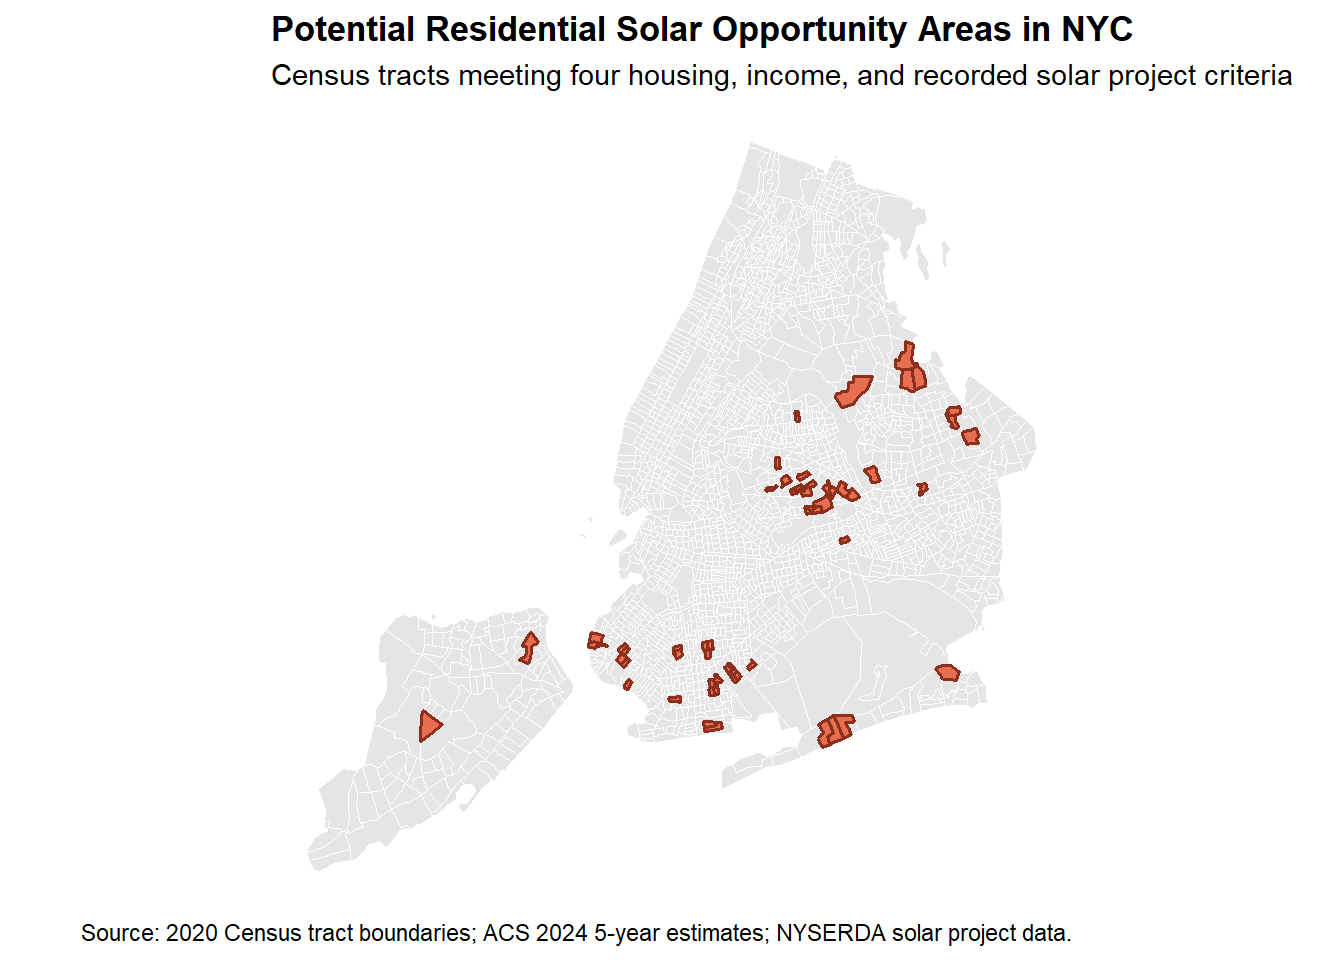
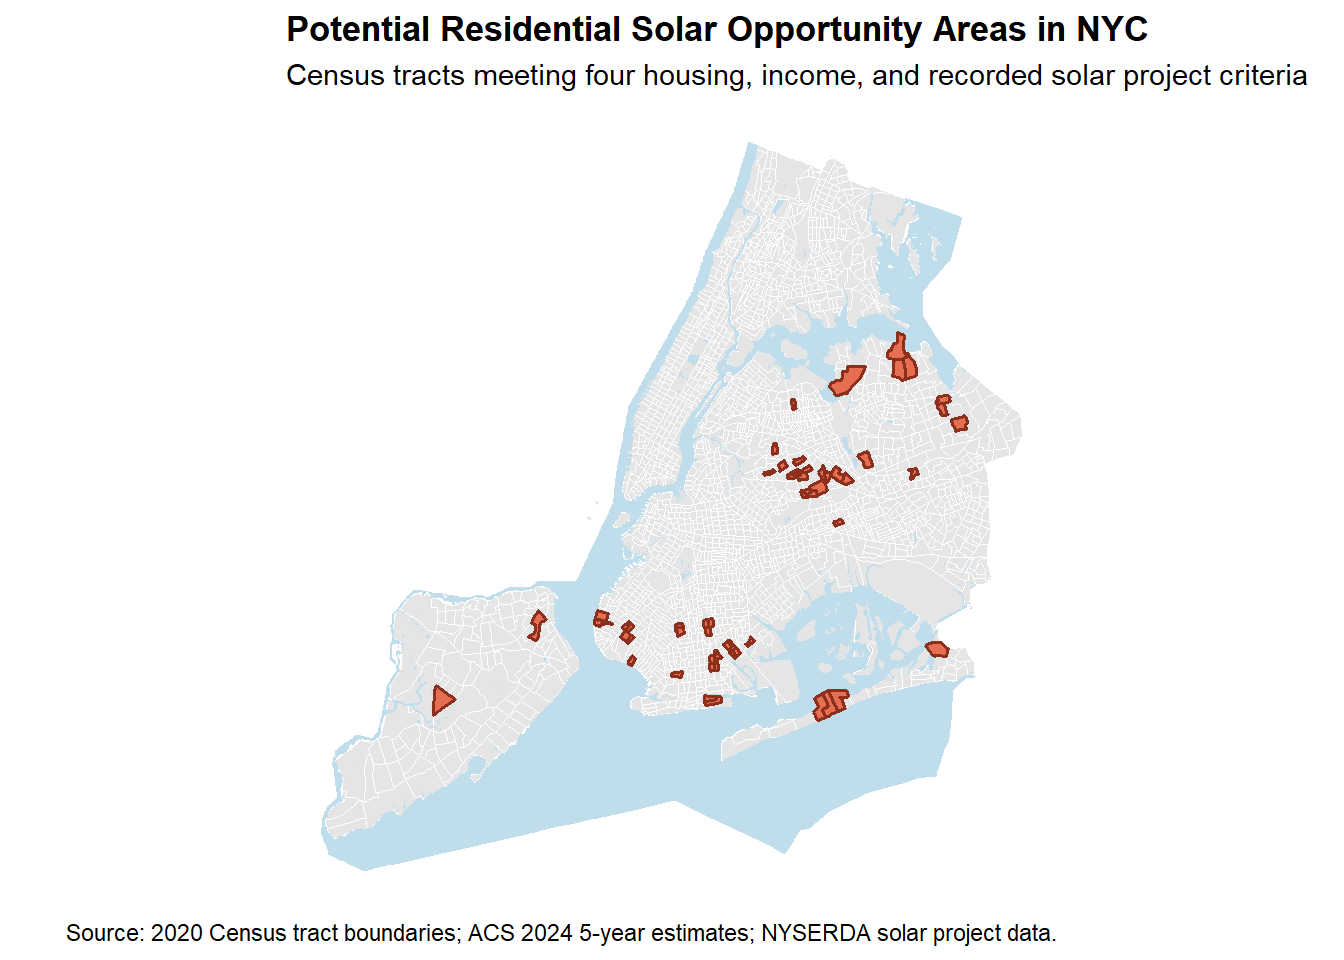
update qmd, html

Changed region(s): [[0.2188, 0.1562, 0.7812, 0.9062], [0.1875, 0.0, 0.9688, 0.0938], [0.0625, 0.9375, 0.8125, 1.0]]

diff --git a/FinalProject.html b/FinalProject.html
@@ -681,7 +681,14 @@ sample estimates:
 <span id="cb61-4"><a href="#cb61-4" aria-hidden="true" tabindex="-1"></a>  <span class="at">county =</span> <span class="fu">c</span>(<span class="st">"Bronx"</span>, <span class="st">"Kings"</span>, <span class="st">"New York"</span>, <span class="st">"Queens"</span>, <span class="st">"Richmond"</span>),</span>
 <span id="cb61-5"><a href="#cb61-5" aria-hidden="true" tabindex="-1"></a>  <span class="at">year =</span> <span class="dv">2020</span>,</span>
 <span id="cb61-6"><a href="#cb61-6" aria-hidden="true" tabindex="-1"></a>  <span class="at">cb =</span> <span class="cn">TRUE</span></span>
-<span id="cb61-7"><a href="#cb61-7" aria-hidden="true" tabindex="-1"></a>)</span></code></pre></div><button title="Copy to Clipboard" class="code-copy-button"><i class="bi"></i></button></div>
+<span id="cb61-7"><a href="#cb61-7" aria-hidden="true" tabindex="-1"></a>)</span>
+<span id="cb61-8"><a href="#cb61-8" aria-hidden="true" tabindex="-1"></a><span class="co"># Retrieve NYC water features</span></span>
+<span id="cb61-9"><a href="#cb61-9" aria-hidden="true" tabindex="-1"></a>nyc_water <span class="ot">&lt;-</span> <span class="fu">area_water</span>(</span>
+<span id="cb61-10"><a href="#cb61-10" aria-hidden="true" tabindex="-1"></a>  <span class="at">state =</span> <span class="st">"NY"</span>,</span>
+<span id="cb61-11"><a href="#cb61-11" aria-hidden="true" tabindex="-1"></a>  <span class="at">county =</span> <span class="fu">c</span>(<span class="st">"Bronx"</span>, <span class="st">"Kings"</span>, <span class="st">"New York"</span>, <span class="st">"Queens"</span>, <span class="st">"Richmond"</span>),</span>
+<span id="cb61-12"><a href="#cb61-12" aria-hidden="true" tabindex="-1"></a>  <span class="at">year =</span> <span class="dv">2020</span>,</span>
+<span id="cb61-13"><a href="#cb61-13" aria-hidden="true" tabindex="-1"></a>  <span class="at">class =</span> <span class="st">"sf"</span></span>
+<span id="cb61-14"><a href="#cb61-14" aria-hidden="true" tabindex="-1"></a>)</span></code></pre></div><button title="Copy to Clipboard" class="code-copy-button"><i class="bi"></i></button></div>
 </div>
 <div class="cell">
 <div class="code-copy-outer-scaffold"><div class="sourceCode cell-code" id="cb62"><pre class="sourceCode r code-with-copy"><code class="sourceCode r"><span id="cb62-1"><a href="#cb62-1" aria-hidden="true" tabindex="-1"></a><span class="co"># Extract GEOIDs of the selected solar opportunity tracts.</span></span>
@@ -695,32 +702,40 @@ sample estimates:
 </div>
 <div class="cell">
 <div class="code-copy-outer-scaffold"><div class="sourceCode cell-code" id="cb63"><pre class="sourceCode r code-with-copy"><code class="sourceCode r"><span id="cb63-1"><a href="#cb63-1" aria-hidden="true" tabindex="-1"></a><span class="fu">ggplot</span>() <span class="sc">+</span></span>
-<span id="cb63-2"><a href="#cb63-2" aria-hidden="true" tabindex="-1"></a>  <span class="fu">geom_sf</span>(</span>
-<span id="cb63-3"><a href="#cb63-3" aria-hidden="true" tabindex="-1"></a>    <span class="at">data =</span> nyc_tracts,</span>
-<span id="cb63-4"><a href="#cb63-4" aria-hidden="true" tabindex="-1"></a>    <span class="at">fill =</span> <span class="st">"grey90"</span>,</span>
-<span id="cb63-5"><a href="#cb63-5" aria-hidden="true" tabindex="-1"></a>    <span class="at">color =</span> <span class="st">"white"</span>,</span>
-<span id="cb63-6"><a href="#cb63-6" aria-hidden="true" tabindex="-1"></a>    <span class="at">linewidth =</span> <span class="fl">0.1</span></span>
-<span id="cb63-7"><a href="#cb63-7" aria-hidden="true" tabindex="-1"></a>  ) <span class="sc">+</span></span>
-<span id="cb63-8"><a href="#cb63-8" aria-hidden="true" tabindex="-1"></a>  <span class="fu">geom_sf</span>(</span>
-<span id="cb63-9"><a href="#cb63-9" aria-hidden="true" tabindex="-1"></a>    <span class="at">data =</span> nyc_tracts <span class="sc">%&gt;%</span> <span class="fu">filter</span>(candidate),</span>
-<span id="cb63-10"><a href="#cb63-10" aria-hidden="true" tabindex="-1"></a>    <span class="at">fill =</span> <span class="st">"#E76F51"</span>,</span>
-<span id="cb63-11"><a href="#cb63-11" aria-hidden="true" tabindex="-1"></a>    <span class="at">color =</span> <span class="st">"#8C2F1C"</span>,</span>
-<span id="cb63-12"><a href="#cb63-12" aria-hidden="true" tabindex="-1"></a>    <span class="at">linewidth =</span> <span class="fl">0.6</span></span>
-<span id="cb63-13"><a href="#cb63-13" aria-hidden="true" tabindex="-1"></a>  ) <span class="sc">+</span></span>
-<span id="cb63-14"><a href="#cb63-14" aria-hidden="true" tabindex="-1"></a>  <span class="fu">labs</span>(</span>
-<span id="cb63-15"><a href="#cb63-15" aria-hidden="true" tabindex="-1"></a>    <span class="at">title =</span> <span class="st">"Potential Residential Solar Opportunity Areas in NYC"</span>,</span>
-<span id="cb63-16"><a href="#cb63-16" aria-hidden="true" tabindex="-1"></a>    <span class="at">subtitle =</span> <span class="st">"Census tracts meeting four housing, income, and recorded solar project criteria"</span>,</span>
-<span id="cb63-17"><a href="#cb63-17" aria-hidden="true" tabindex="-1"></a>    <span class="at">caption =</span> <span class="st">"Source: 2020 Census tract boundaries; ACS 2024 5-year estimates; NYSERDA solar project data."</span></span>
-<span id="cb63-18"><a href="#cb63-18" aria-hidden="true" tabindex="-1"></a>  ) <span class="sc">+</span></span>
-<span id="cb63-19"><a href="#cb63-19" aria-hidden="true" tabindex="-1"></a>  <span class="fu">theme_minimal</span>() <span class="sc">+</span></span>
-<span id="cb63-20"><a href="#cb63-20" aria-hidden="true" tabindex="-1"></a>  <span class="fu">theme</span>(</span>
-<span id="cb63-21"><a href="#cb63-21" aria-hidden="true" tabindex="-1"></a>    <span class="at">axis.title =</span> <span class="fu">element_blank</span>(),</span>
-<span id="cb63-22"><a href="#cb63-22" aria-hidden="true" tabindex="-1"></a>    <span class="at">axis.text =</span> <span class="fu">element_blank</span>(),</span>
-<span id="cb63-23"><a href="#cb63-23" aria-hidden="true" tabindex="-1"></a>    <span class="at">axis.ticks =</span> <span class="fu">element_blank</span>(),</span>
-<span id="cb63-24"><a href="#cb63-24" aria-hidden="true" tabindex="-1"></a>    <span class="at">panel.grid =</span> <span class="fu">element_blank</span>(),</span>
-<span id="cb63-25"><a href="#cb63-25" aria-hidden="true" tabindex="-1"></a>    <span class="at">legend.position =</span> <span class="st">"none"</span>,</span>
-<span id="cb63-26"><a href="#cb63-26" aria-hidden="true" tabindex="-1"></a>    <span class="at">plot.title =</span> <span class="fu">element_text</span>(<span class="at">face =</span> <span class="st">"bold"</span>)</span>
-<span id="cb63-27"><a href="#cb63-27" aria-hidden="true" tabindex="-1"></a>  )</span></code></pre></div><button title="Copy to Clipboard" class="code-copy-button"><i class="bi"></i></button></div>
+<span id="cb63-2"><a href="#cb63-2" aria-hidden="true" tabindex="-1"></a>  <span class="co"># Background census tracts</span></span>
+<span id="cb63-3"><a href="#cb63-3" aria-hidden="true" tabindex="-1"></a>  <span class="fu">geom_sf</span>(</span>
+<span id="cb63-4"><a href="#cb63-4" aria-hidden="true" tabindex="-1"></a>    <span class="at">data =</span> nyc_tracts,</span>
+<span id="cb63-5"><a href="#cb63-5" aria-hidden="true" tabindex="-1"></a>    <span class="at">fill =</span> <span class="st">"grey90"</span>,</span>
+<span id="cb63-6"><a href="#cb63-6" aria-hidden="true" tabindex="-1"></a>    <span class="at">color =</span> <span class="st">"white"</span>,</span>
+<span id="cb63-7"><a href="#cb63-7" aria-hidden="true" tabindex="-1"></a>    <span class="at">linewidth =</span> <span class="fl">0.1</span></span>
+<span id="cb63-8"><a href="#cb63-8" aria-hidden="true" tabindex="-1"></a>  ) <span class="sc">+</span></span>
+<span id="cb63-9"><a href="#cb63-9" aria-hidden="true" tabindex="-1"></a>  <span class="co"># Water features</span></span>
+<span id="cb63-10"><a href="#cb63-10" aria-hidden="true" tabindex="-1"></a>  <span class="fu">geom_sf</span>(</span>
+<span id="cb63-11"><a href="#cb63-11" aria-hidden="true" tabindex="-1"></a>    <span class="at">data =</span> nyc_water,</span>
+<span id="cb63-12"><a href="#cb63-12" aria-hidden="true" tabindex="-1"></a>    <span class="at">fill =</span> <span class="st">"#BFDDEB"</span>,</span>
+<span id="cb63-13"><a href="#cb63-13" aria-hidden="true" tabindex="-1"></a>    <span class="at">color =</span> <span class="cn">NA</span></span>
+<span id="cb63-14"><a href="#cb63-14" aria-hidden="true" tabindex="-1"></a>  ) <span class="sc">+</span></span>
+<span id="cb63-15"><a href="#cb63-15" aria-hidden="true" tabindex="-1"></a>  <span class="co"># Selected opportunity tracts</span></span>
+<span id="cb63-16"><a href="#cb63-16" aria-hidden="true" tabindex="-1"></a>  <span class="fu">geom_sf</span>(</span>
+<span id="cb63-17"><a href="#cb63-17" aria-hidden="true" tabindex="-1"></a>    <span class="at">data =</span> nyc_tracts <span class="sc">%&gt;%</span> <span class="fu">filter</span>(candidate),</span>
+<span id="cb63-18"><a href="#cb63-18" aria-hidden="true" tabindex="-1"></a>    <span class="at">fill =</span> <span class="st">"#E76F51"</span>,</span>
+<span id="cb63-19"><a href="#cb63-19" aria-hidden="true" tabindex="-1"></a>    <span class="at">color =</span> <span class="st">"#8C2F1C"</span>,</span>
+<span id="cb63-20"><a href="#cb63-20" aria-hidden="true" tabindex="-1"></a>    <span class="at">linewidth =</span> <span class="fl">0.6</span></span>
+<span id="cb63-21"><a href="#cb63-21" aria-hidden="true" tabindex="-1"></a>  ) <span class="sc">+</span></span>
+<span id="cb63-22"><a href="#cb63-22" aria-hidden="true" tabindex="-1"></a>  <span class="fu">labs</span>(</span>
+<span id="cb63-23"><a href="#cb63-23" aria-hidden="true" tabindex="-1"></a>    <span class="at">title =</span> <span class="st">"Potential Residential Solar Opportunity Areas in NYC"</span>,</span>
+<span id="cb63-24"><a href="#cb63-24" aria-hidden="true" tabindex="-1"></a>    <span class="at">subtitle =</span> <span class="st">"Census tracts meeting four housing, income, and recorded solar project criteria"</span>,</span>
+<span id="cb63-25"><a href="#cb63-25" aria-hidden="true" tabindex="-1"></a>    <span class="at">caption =</span> <span class="st">"Source: 2020 Census tract boundaries; ACS 2024 5-year estimates; NYSERDA solar project data."</span></span>
+<span id="cb63-26"><a href="#cb63-26" aria-hidden="true" tabindex="-1"></a>  ) <span class="sc">+</span></span>
+<span id="cb63-27"><a href="#cb63-27" aria-hidden="true" tabindex="-1"></a>  <span class="fu">theme_minimal</span>() <span class="sc">+</span></span>
+<span id="cb63-28"><a href="#cb63-28" aria-hidden="true" tabindex="-1"></a>  <span class="fu">theme</span>(</span>
+<span id="cb63-29"><a href="#cb63-29" aria-hidden="true" tabindex="-1"></a>    <span class="at">axis.title =</span> <span class="fu">element_blank</span>(),</span>
+<span id="cb63-30"><a href="#cb63-30" aria-hidden="true" tabindex="-1"></a>    <span class="at">axis.text =</span> <span class="fu">element_blank</span>(),</span>
+<span id="cb63-31"><a href="#cb63-31" aria-hidden="true" tabindex="-1"></a>    <span class="at">axis.ticks =</span> <span class="fu">element_blank</span>(),</span>
+<span id="cb63-32"><a href="#cb63-32" aria-hidden="true" tabindex="-1"></a>    <span class="at">panel.grid =</span> <span class="fu">element_blank</span>(),</span>
+<span id="cb63-33"><a href="#cb63-33" aria-hidden="true" tabindex="-1"></a>    <span class="at">legend.position =</span> <span class="st">"none"</span>,</span>
+<span id="cb63-34"><a href="#cb63-34" aria-hidden="true" tabindex="-1"></a>    <span class="at">plot.title =</span> <span class="fu">element_text</span>(<span class="at">face =</span> <span class="st">"bold"</span>)</span>
+<span id="cb63-35"><a href="#cb63-35" aria-hidden="true" tabindex="-1"></a>  )</span></code></pre></div><button title="Copy to Clipboard" class="code-copy-button"><i class="bi"></i></button></div>
 <div class="cell-output-display">
 <div>
 <figure class="figure">
